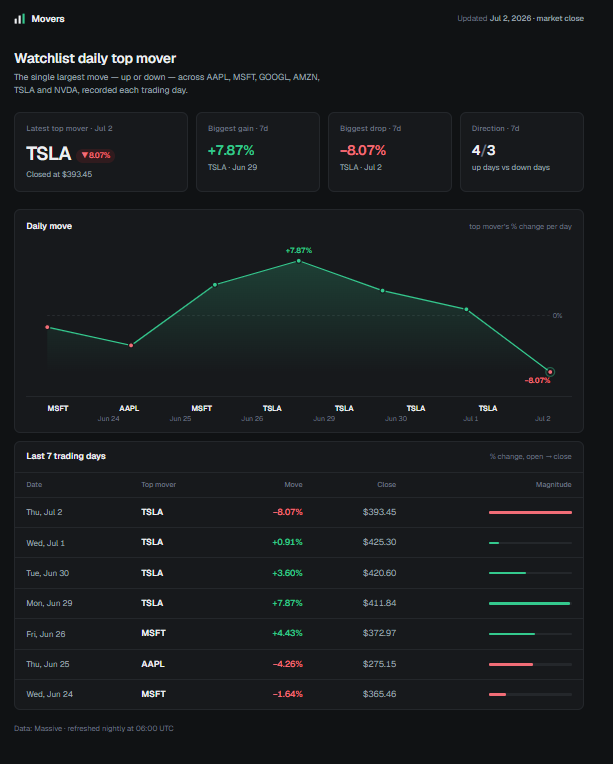
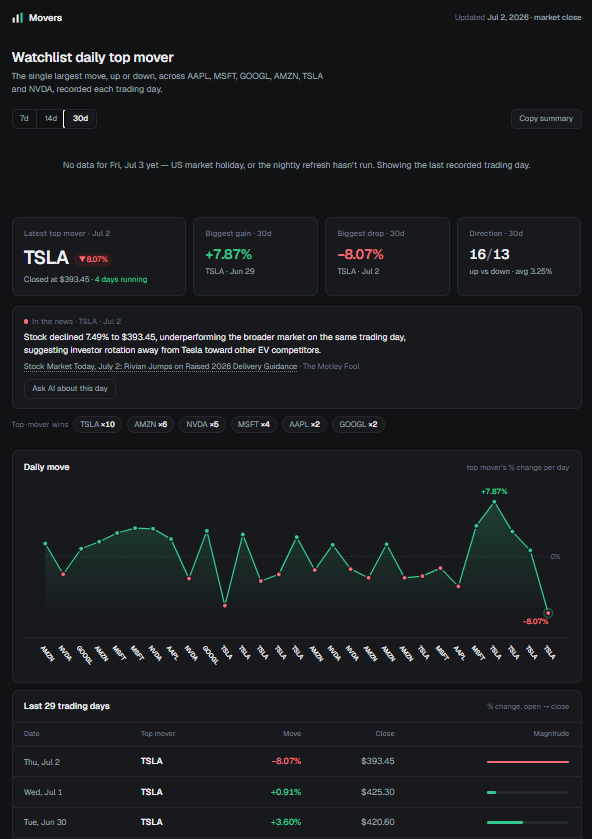
feat: implement frontend dashboard with analytics chart, stats summary, and AI chat interface

diff --git a/frontend/src/App.jsx b/frontend/src/App.jsx
@@ -290,22 +290,28 @@ function Chart({ movers }) {
           </div>
         )}
       </div>
-      <div className="xlabels">
-        {pts
-          .filter((p, i) => {
-            // thin labels on long windows; drop a periodic label that would
-            // crowd the always-shown last one
-            const every = Math.ceil(pts.length / 8)
-            const last = pts.length - 1
-            return i === last || (i % every === 0 && last - i >= every / 2)
-          })
-          .map((p) => (
-            <div key={p.date} style={{ left: p.x }}>
-              <div className="t">{p.ticker}</div>
-              <div className="d">{fmtDate(p.date, { month: 'short', day: 'numeric' })}</div>
-            </div>
-          ))}
-      </div>
+      {(() => {
+        const gap = (W - 2 * PADX) / Math.max(pts.length - 1, 1)
+        const tight = gap < 48 // long windows: rotate labels instead of dropping them
+        const shown = mobile
+          ? pts.filter((p, i) => {
+              // phones can't fit every label; thin, but keep the last day
+              const every = Math.ceil(pts.length / 8)
+              const last = pts.length - 1
+              return i === last || (i % every === 0 && last - i >= every / 2)
+            })
+          : pts
+        return (
+          <div className="xlabels" style={tight && !mobile ? { height: 60 } : undefined}>
+            {shown.map((p) => (
+              <div key={p.date} className={tight && !mobile ? 'rot' : ''} style={{ left: p.x }}>
+                <div className="t">{p.ticker}</div>
+                {!tight && <div className="d">{fmtDate(p.date, { month: 'short', day: 'numeric' })}</div>}
+              </div>
+            ))}
+          </div>
+        )
+      })()}
     </section>
   )
 }

diff --git a/frontend/src/index.css b/frontend/src/index.css
@@ -185,6 +185,11 @@ h1 { font-size: 22px; font-weight: 600; letter-spacing: -0.015em; margin: 36px 0
   position: absolute; top: 10px; transform: translateX(-50%);
   text-align: center; white-space: nowrap;
 }
+.xlabels > div.rot {
+  transform: rotate(52deg); transform-origin: top left;
+  text-align: left;
+}
+.xlabels .rot .t { font-size: 10px; font-weight: 550; }
 .xlabels .t { font-size: 12px; font-weight: 600; }
 .xlabels .d { font-size: 11px; color: var(--text-3); }
 